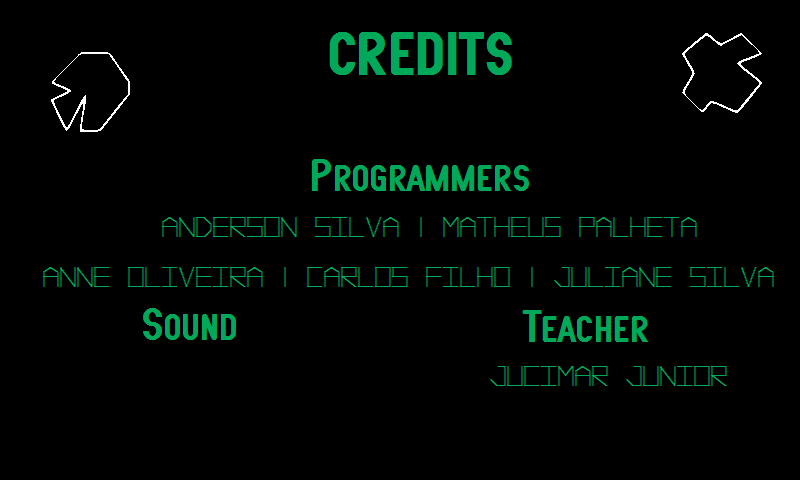
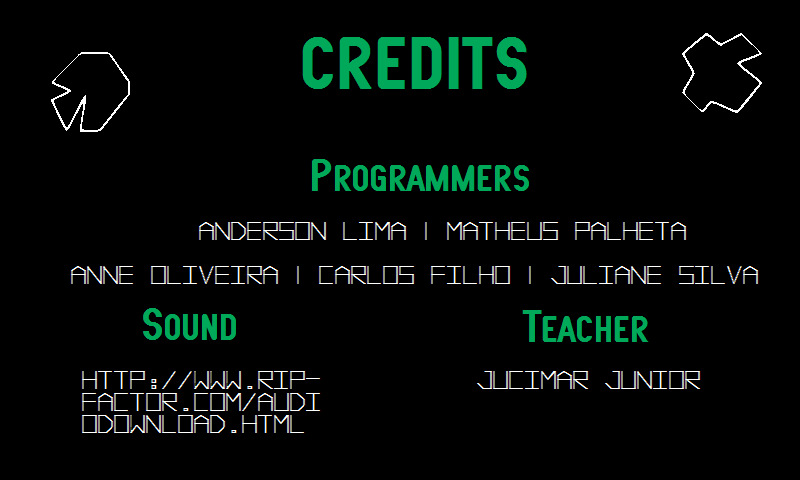
[Asteroids][Cocos2D] Change color from text

diff --git a/cocos2d/asteroids/main.js b/cocos2d/asteroids/main.js
@@ -52,5 +52,5 @@ var cocos2dApp = cc.Application.extend({
     }
 });
 
-var myApp = new cocos2dApp(Menu);
+var myApp = new cocos2dApp(SplashInicial);
 //var myApp = new cocos2dApp(GameScene);
